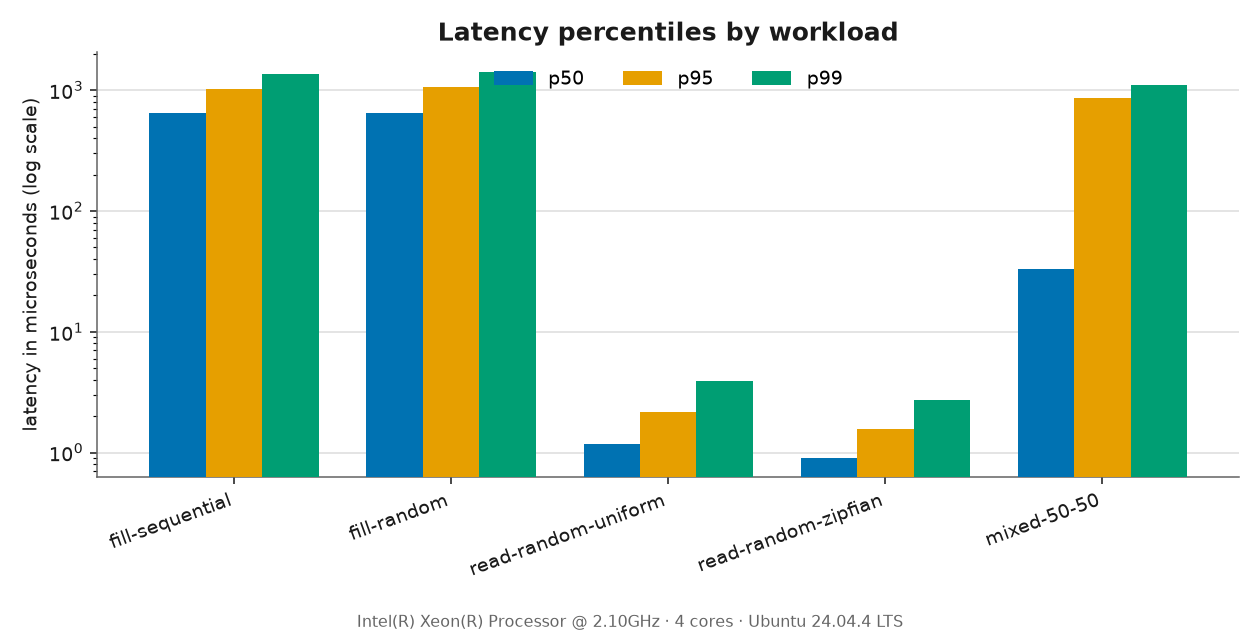
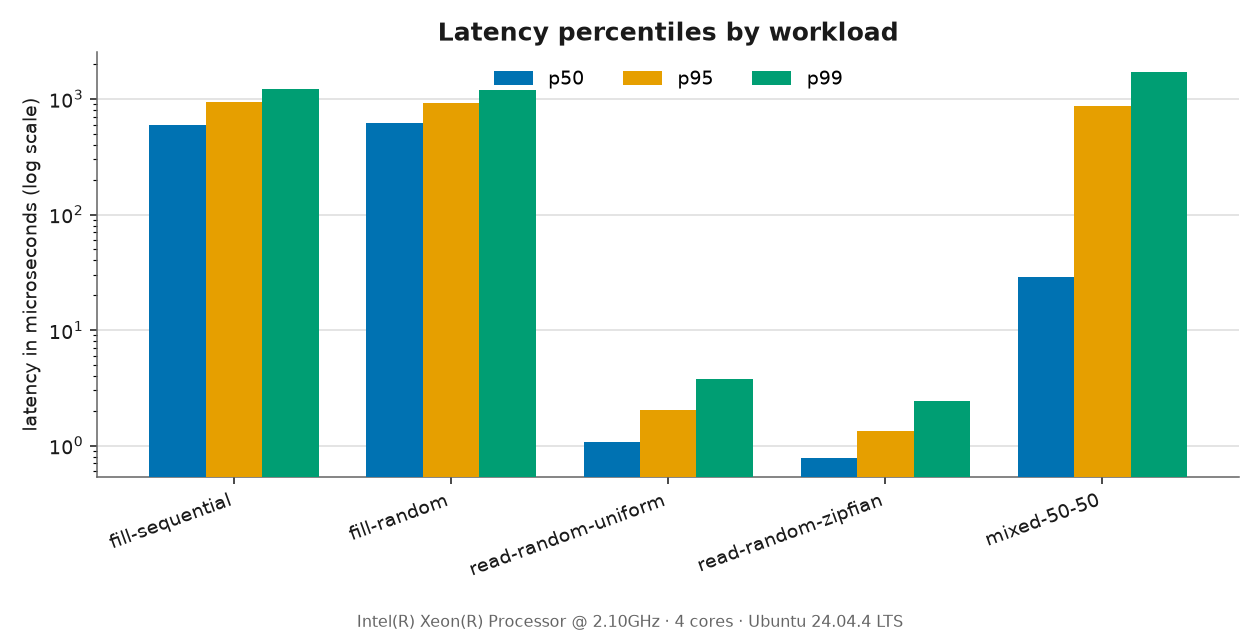
refresh benchmark numbers after the read optimization

diff --git a/bench/results/table.md b/bench/results/table.md
@@ -3,8 +3,8 @@ Config: 50000 ops/workload, 100000 keys, 100-byte values, 16-byte keys, flush at
 
 | workload | ops/sec | p50 (us) | p95 (us) | p99 (us) |
 |---|---:|---:|---:|---:|
-| fill-sequential | 1,440 | 647.20 | 1018.59 | 1367.30 |
-| fill-random | 1,422 | 649.32 | 1055.64 | 1427.08 |
-| read-random-uniform | 683,215 | 1.18 | 2.16 | 3.90 |
-| read-random-zipfian | 814,684 | 0.90 | 1.58 | 2.70 |
-| mixed-50-50 | 2,930 | 32.89 | 867.83 | 1105.70 |
+| fill-sequential | 1,556 | 595.57 | 937.54 | 1227.50 |
+| fill-random | 1,533 | 614.08 | 929.50 | 1190.85 |
+| read-random-uniform | 738,001 | 1.08 | 2.05 | 3.80 |
+| read-random-zipfian | 935,160 | 0.78 | 1.32 | 2.46 |
+| mixed-50-50 | 2,897 | 28.61 | 864.14 | 1726.27 |
